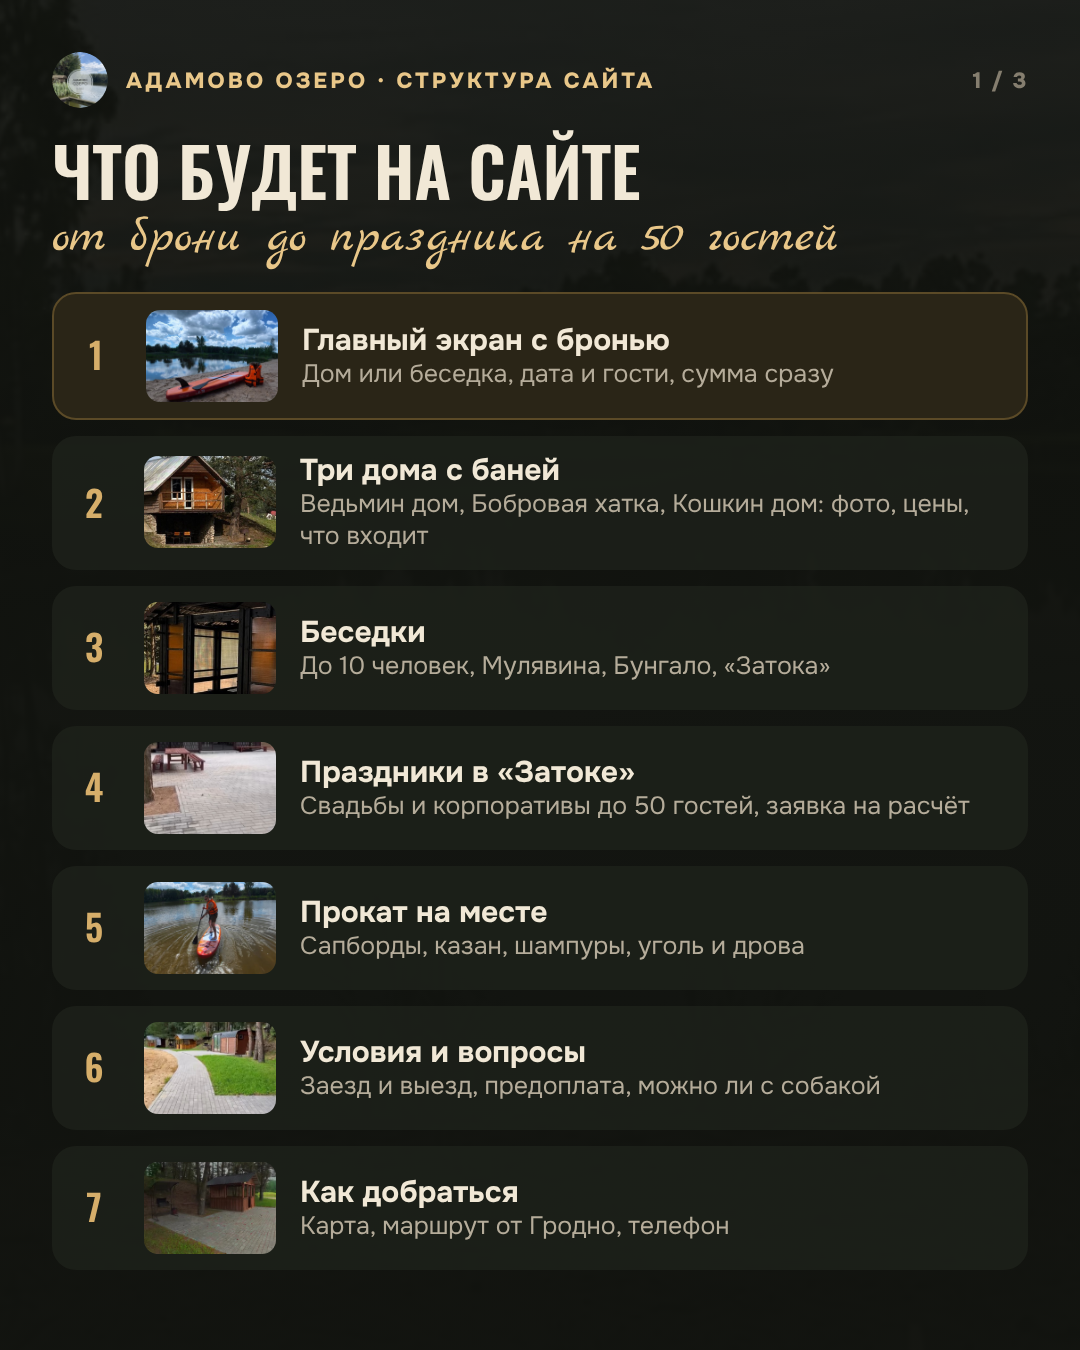
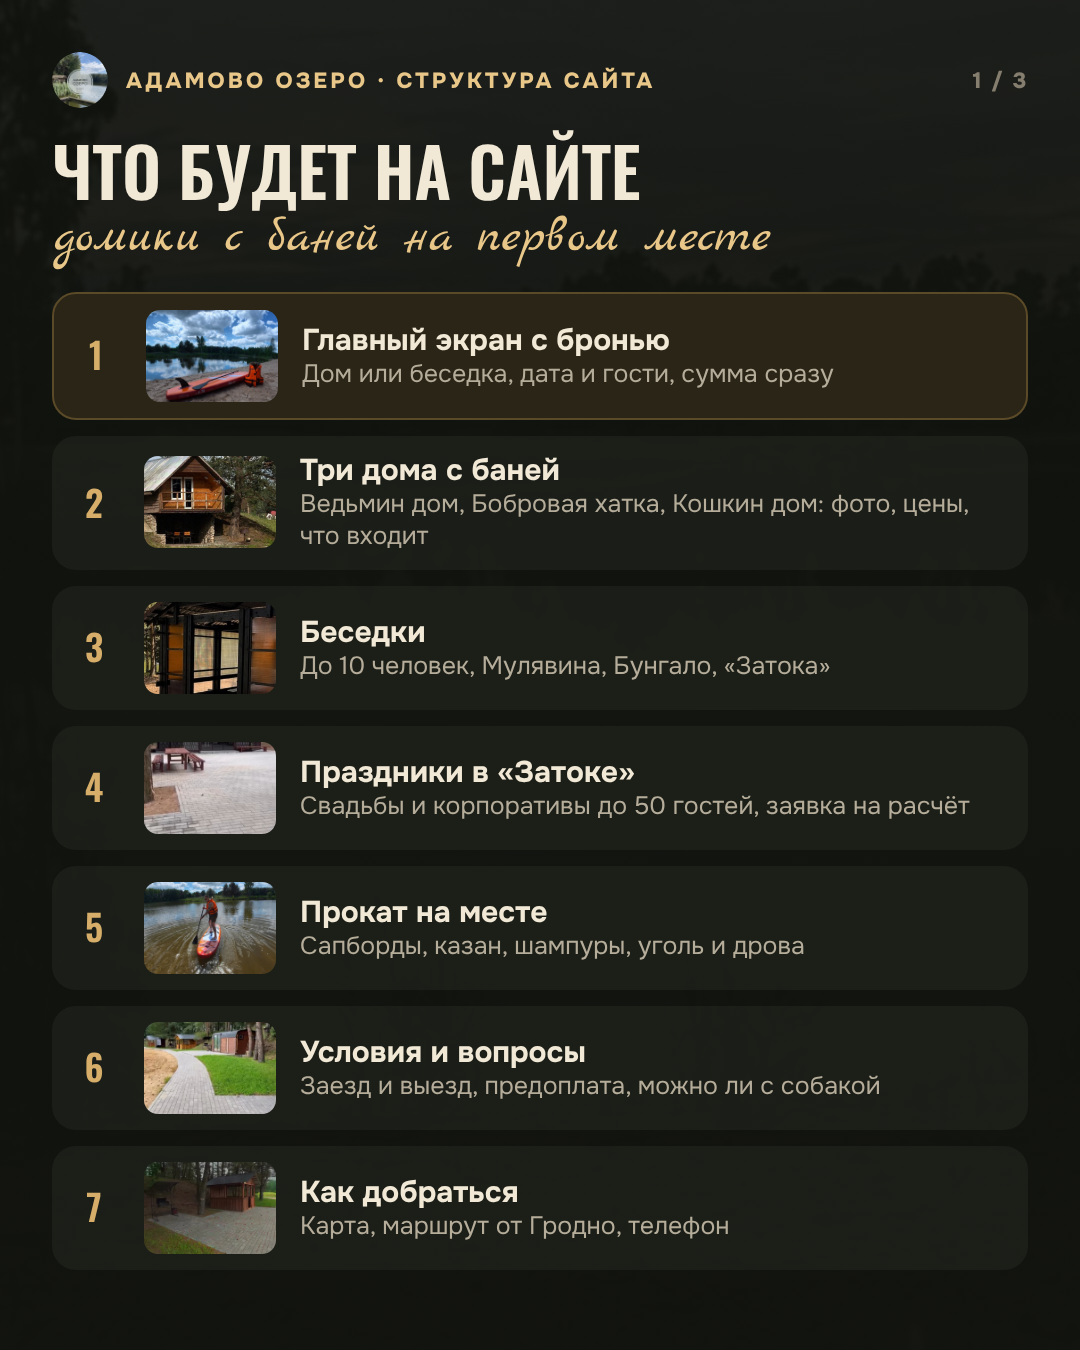
Адамово озеро: разбор картинками 4:5, домики первыми в структуре
Claude-Session: https://claude.ai/code/session_01MqcZMDCk8PUncdn7RSx91k

Changed region(s): [[0.2444, 0.1556, 0.7944, 0.2178], [0.0306, 0.1556, 0.2139, 0.1867]]

diff --git a/adamovo-ozero/razbor.html b/adamovo-ozero/razbor.html
@@ -1,0 +1,101 @@
+<!doctype html>
+<html lang="ru">
+<head>
+<meta charset="utf-8">
+<meta name="viewport" content="width=device-width,initial-scale=1">
+<title>Адамово озеро · разбор картинками</title>
+<link rel="preconnect" href="https://fonts.googleapis.com">
+<link rel="preconnect" href="https://fonts.gstatic.com" crossorigin>
+<link rel="stylesheet" href="https://fonts.googleapis.com/css2?family=Onest:wght@400;500;600;700;800&family=Oswald:wght@500;600&family=Marck+Script&display=swap">
+<style>
+/* Разбор конкурентов слайдами 540×675 (4:5) для отправки в директ, в тех же цветах, что и структура */
+:root{
+  --bg:#11130F;--surface:#1D2019;--surface2:#272A21;--ink:#F1E8D6;--muted:#B5AC9A;--dim:#857E6F;--line:#33362C;
+  --gold:#D6AE6A;--gold-hi:#E9C789;--gold-tint:#2A2517;--gold-line:#5B4A27;--bad:#D98C6A;--moss:#8E9C6A;
+  --f-body:"Onest",system-ui,sans-serif;--f-head:"Oswald","Arial Narrow",sans-serif;--f-script:"Marck Script",cursive;
+}
+*{box-sizing:border-box}
+body{margin:0;background:#000;display:grid;gap:20px;justify-content:center;padding:20px 0;font-family:var(--f-body);color:var(--ink)}
+.slide{width:540px;height:675px;position:relative;overflow:hidden;background:var(--bg);isolation:isolate;padding:26px 26px 22px;display:flex;flex-direction:column;gap:14px}
+.slide.photo::before{content:"";position:absolute;inset:0;z-index:-2;background:url("img/ozero-vecher.jpg") center/cover;opacity:.28}
+.slide.photo::after{content:"";position:absolute;inset:0;z-index:-1;background:linear-gradient(180deg,rgb(17 19 15 / .7),rgb(17 19 15 / .96) 40%)}
+.brand{display:flex;align-items:center;gap:9px;font-size:11px;font-weight:800;letter-spacing:.14em;text-transform:uppercase;color:var(--gold-hi)}
+.brand img{width:28px;height:28px;border-radius:50%}
+.brand .pg{margin-left:auto;color:var(--dim);letter-spacing:.08em}
+.ttl{margin:0;font-family:var(--f-head);font-weight:600;font-size:32px;line-height:1.04;text-transform:uppercase}
+.ttl em{display:block;font-family:var(--f-script);font-style:normal;text-transform:none;font-weight:400;color:var(--gold-hi);font-size:24px;margin-top:4px}
+.pains{display:grid;gap:8px;margin:0;padding:0;list-style:none}
+.pains li{display:grid;grid-template-columns:30px minmax(0,1fr);gap:10px;align-items:start;background:rgb(29 32 25 / .92);border-radius:12px;padding:10px 12px 10px 10px;font-size:13.5px;line-height:1.36}
+.pains li b{display:block;font-size:14.5px;margin-bottom:1px}
+.pains .n{width:30px;height:30px;border-radius:50%;background:var(--gold-tint);border:1px solid var(--gold-line);color:var(--gold-hi);font-family:var(--f-head);font-weight:600;font-size:16px;display:grid;place-items:center}
+.comp{display:grid;gap:6px}
+.row{display:grid;grid-template-columns:minmax(0,1fr) 104px;gap:10px;align-items:center;background:var(--surface);border-radius:12px;padding:9px 12px}
+.row b{display:block;font-size:14.5px;line-height:1.2}
+.row span{display:block;font-size:12px;color:var(--muted);line-height:1.3;margin-top:2px}
+.row .pr{text-align:right;font-family:var(--f-head);font-weight:500;font-size:15px;color:var(--muted);line-height:1.15}
+.row .pr.y{color:var(--gold-hi)}
+.row.you{background:var(--gold-tint);border:1px solid var(--gold-line)}
+.row.you .pr{color:var(--gold-hi)}
+.box{background:var(--surface2);border-radius:12px;padding:11px 13px;font-size:13.5px;line-height:1.4}
+.box b{color:var(--gold-hi)}
+.src{font-size:10.5px;color:var(--dim);margin-top:auto}
+.chat{background:var(--surface);border-radius:14px;padding:12px;display:grid;gap:6px}
+.lbl{font-size:10.5px;font-weight:800;letter-spacing:.12em;text-transform:uppercase;color:var(--muted)}
+.msg{max-width:86%;padding:7px 10px;border-radius:13px;font-size:13px;line-height:1.35}
+.msg.in{background:var(--surface2);justify-self:start;border-bottom-left-radius:4px}
+.msg.out{background:#3A3320;justify-self:end;border-bottom-right-radius:4px}
+.msg i{display:block;font-style:normal;font-size:10.5px;color:var(--dim);margin-top:2px}
+.foot{font-size:12.5px;color:var(--muted);line-height:1.35}
+.req{background:#1F2A33;border-radius:13px 13px 13px 4px;padding:11px 13px;font-size:13.5px;display:grid;gap:2px}
+.req .who{font-size:11px;font-weight:700;color:#7FB3E0}
+.req i{font-style:normal;color:#93A3AF;font-size:10.5px;justify-self:end}
+</style>
+</head>
+<body>
+
+<div class="slide photo">
+  <div class="brand"><img src="img/logo.png" alt="">Адамово озеро · разбор<span class="pg">1 / 3</span></div>
+  <h2 class="ttl">Где сейчас теряется бронь домика<em>пять мест, где гость уходит к&nbsp;соседям</em></h2>
+  <ul class="pains">
+    <li><span class="n">1</span><span><b>Цены в&nbsp;девяти хайлайтс</b>Чтобы сравнить Ведьмин дом и&nbsp;Бобровую хатку, гость листает «Прайс домов», «Дом» и&nbsp;закрепы.</span></li>
+    <li><span class="n">2</span><span><b>Нет календаря</b>На&nbsp;«свободна&nbsp;ли суббота?» отвечает только администратор, а&nbsp;гость тем временем пишет соседям.</span></li>
+    <li><span class="n">3</span><span><b>В&nbsp;шапке нет ссылки</b>После рилс человеку некуда перейти, кроме директа.</span></li>
+    <li><span class="n">4</span><span><b>«Руб.» и&nbsp;BYN вперемешку</b>На&nbsp;слайдах домиков «300&nbsp;руб.», в&nbsp;прайсе BYN. Гость из&nbsp;России решит, что это российские рубли.</span></li>
+    <li><span class="n">5</span><span><b>Вас нет в&nbsp;поиске</b>По&nbsp;запросу «Адамово озеро база отдыха» выдача показывает соседнюю усадьбу «Домашний очаг».</span></li>
+  </ul>
+</div>
+
+<div class="slide">
+  <div class="brand"><img src="img/logo.png" alt="">Адамово озеро · разбор<span class="pg">2 / 3</span></div>
+  <h2 class="ttl">Кто ещё принимает гостей под&nbsp;Гродно</h2>
+  <div class="comp">
+    <div class="row"><div><b>Усадьба «Домашний очаг»</b><span>Жукевичи, 2&nbsp;км от&nbsp;вас. Дом и&nbsp;домик с&nbsp;баней на&nbsp;дровах, сплав по&nbsp;каналу</span></div><div class="pr">цена не&nbsp;указана</div></div>
+    <div class="row"><div><b>Усадьба «На&nbsp;озере»</b><span>Вильяново, 20&nbsp;км. Два дома, беседки на&nbsp;воде на&nbsp;6–30, зал до&nbsp;70&nbsp;человек</span></div><div class="pr">цена не&nbsp;указана</div></div>
+    <div class="row"><div><b>Озеро Белое</b><span>26&nbsp;км. Дом с&nbsp;русской баней на&nbsp;8&nbsp;человек</span></div><div class="pr y">от&nbsp;160 BYN</div></div>
+    <div class="row"><div><b>«Лесной Эдем»</b><span>Лихачи, 30&nbsp;км. До&nbsp;16&nbsp;гостей, бассейн, баня и&nbsp;сауна</span></div><div class="pr">договорная</div></div>
+    <div class="row you"><div><b>Адамово озеро</b><span>15&nbsp;км. Три дома с&nbsp;баней, беседки до&nbsp;50&nbsp;человек, сапборды</span></div><div class="pr">300–350 BYN, цены открыты</div></div>
+  </div>
+  <div class="box">У&nbsp;соседей не&nbsp;встретила <b>календаря свободных дат</b>, <b>брони с&nbsp;предоплатой</b> и&nbsp;открытых цен по&nbsp;дням. У&nbsp;вас цены уже расписаны, осталось показать их&nbsp;так, чтобы сумма считалась сама.</div>
+  <div class="src">По&nbsp;карточкам каталогов (mirturbaz, 101hotels, Яндекс Путешествия) и&nbsp;поисковой выдаче на&nbsp;22&nbsp;ноября 2026</div>
+</div>
+
+<div class="slide">
+  <div class="brand"><img src="img/logo.png" alt="">Адамово озеро · разбор<span class="pg">3 / 3</span></div>
+  <h2 class="ttl">Было и&nbsp;стало<em>одна и&nbsp;та&nbsp;же бронь домика</em></h2>
+  <div class="chat">
+    <span class="lbl">Сейчас, в&nbsp;директе</span>
+    <div class="msg in">Бобровая хатка на&nbsp;субботу 12&nbsp;декабря свободна?<i>10:14</i></div>
+    <div class="msg in">Нас шестеро, сколько выйдет с&nbsp;баней?<i>10:15</i></div>
+    <div class="msg out">Добрый день! Свободна. 350&nbsp;BYN и&nbsp;по&nbsp;10&nbsp;BYN за&nbsp;двоих сверх четырёх, итого 370<i>11:52</i></div>
+    <div class="msg in">А&nbsp;Ведьмин дом в&nbsp;эту субботу? С&nbsp;собакой можно?<i>12:30</i></div>
+    <p class="foot" style="margin:0">Два часа и&nbsp;четыре сообщения, а&nbsp;гость всё ещё выбирает.</p>
+  </div>
+  <div class="chat">
+    <span class="lbl">С&nbsp;сайтом, сообщение администратору</span>
+    <div class="req"><span class="who">Адамово озеро · бронь с&nbsp;сайта</span><b>Бобровая хатка</b><span>сб, 12&nbsp;декабря, 1&nbsp;сутки · 6&nbsp;гостей</span><span>370&nbsp;BYN · предоплата 111&nbsp;BYN</span><span>Ольга, +375&nbsp;29&nbsp;000-00-00</span><i>10:14</i></div>
+    <p class="foot" style="margin:0">Гость сам увидел свободную дату и&nbsp;сумму. Вам остаётся подтвердить и&nbsp;принять предоплату.</p>
+  </div>
+</div>
+
+</body>
+</html>

diff --git a/adamovo-ozero/struktura.html b/adamovo-ozero/struktura.html
@@ -88,7 +88,7 @@ body{margin:0;background:#000;display:grid;gap:20px;justify-content:center;paddi
 
 <div class="slide photo">
   <div class="brand"><img src="img/logo.png" alt="">Адамово озеро · структура сайта<span class="pg">1 / 3</span></div>
-  <h1 class="ttl">Что&nbsp;будет на&nbsp;сайте<em>от&nbsp;брони до&nbsp;праздника на&nbsp;50 гостей</em></h1>
+  <h1 class="ttl">Что&nbsp;будет на&nbsp;сайте<em>домики с&nbsp;баней на&nbsp;первом месте</em></h1>
   <div class="blocks">
     <div class="bl main"><span class="num">1</span><img src="img/ozero-den.jpg" alt=""><div><b>Главный экран с&nbsp;бронью</b><span>Дом или&nbsp;беседка, дата и&nbsp;гости, сумма сразу</span></div></div>
     <div class="bl"><span class="num">2</span><img src="img/bobrovaya.jpg" alt=""><div><b>Три дома с&nbsp;баней</b><span>Ведьмин дом, Бобровая хатка, Кошкин дом: фото, цены, что&nbsp;входит</span></div></div>
